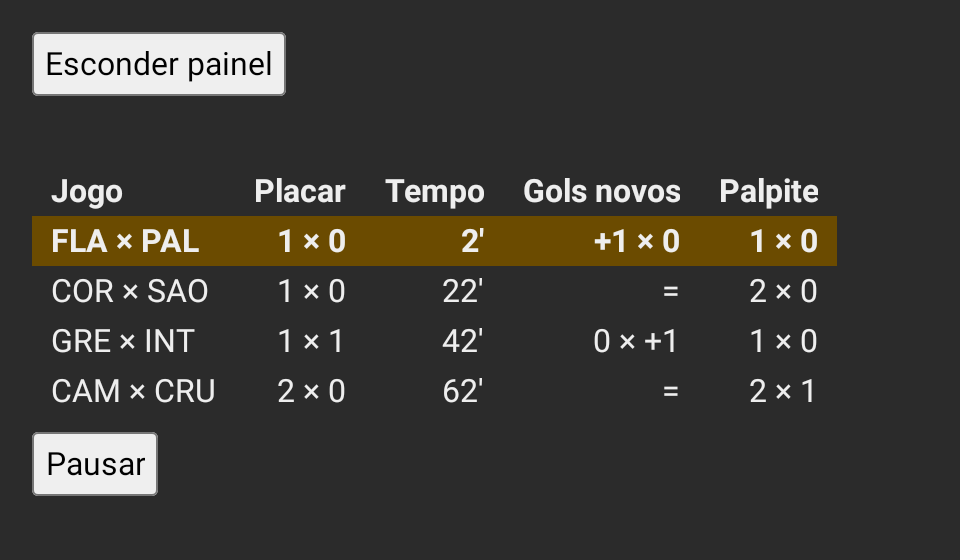
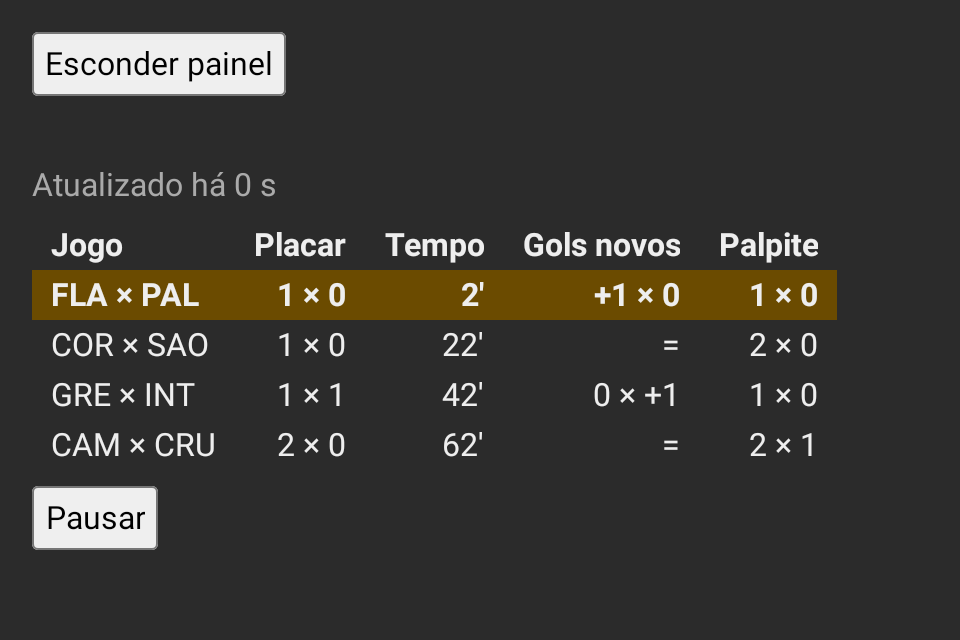
Mostra o "Atualizado há N s" no Views dos Dados ao vivo
O Views falha nas verificações do "Atualizado há" que a especificação
passou a pedir, e o teste nem compila: a Tela procura o id atualizacao,
que o layout não tem.

Como no Web Component, os dois tratadores, o do lote e o do tique,
chamam a mesma mostrarAtualizacao(), que lê a hora pelo agora() do
domínio. O relógio abre e fecha com a inscrição no onStart e no onStop
e ao mostrar e esconder o painel, mas fica aberto na pausa: ele vive
com o painel. Com a tela fora de vista, o Views fecha o relógio como já
fecha a inscrição; ao reabrir, recalcula já o texto, senão a tela que
volta do segundo plano diria por até 1 s a idade de quando saiu de
vista. O estilo Atualizacao herda o da Situacao.

A linha a mais não cabe na tela de 280dp das cenas: o botão de pausa
saía cortado no aguardando, no ao-vivo e no pausado. Os quatro testes
do módulo passam a 320dp, para continuarem com a mesma tela; por isso
o escondido também muda, só na altura. Como antes, a TextView vazia
guarda a altura de uma linha, onde o parágrafo vazio da web não ocupa
nada.

O SegundoPlanoTest e o RotacaoTest passam a conferir também o relógio:
nenhum aberto em segundo plano, um de volta e depois da rotação, e o
"Atualizado há 3 s" logo ao voltar, 3 s depois do lote.

Conferido: os testes do módulo passam, com as 19 verificações; sem o
fecharRelogio() no esconder(), falham 2, 3, 9 e 11; sem a chamada no
receber(), falha "7 o lote seguinte volta o atualizado há a 0 s"; e
[…]

diff --git a/implementacoes/dados-ao-vivo/android-views/src/main/java/tcc/dadosaovivo/views/MainActivity.kt b/implementacoes/dados-ao-vivo/android-views/src/main/java/tcc/dadosaovivo/views/MainActivity.kt
@@ -14,9 +14,12 @@ import java.io.Closeable
 import tcc.dadosaovivo.JOGOS
 import tcc.dadosaovivo.Lote
 import tcc.dadosaovivo.MENSAGENS
+import tcc.dadosaovivo.agora
+import tcc.dadosaovivo.formatarAtualizacao
 import tcc.dadosaovivo.formatarPlacar
 import tcc.dadosaovivo.formatarTempo
 import tcc.dadosaovivo.golsNovos
+import tcc.dadosaovivo.iniciarRelogio
 import tcc.dadosaovivo.inscreverNosPlacares
 import tcc.dadosaovivo.noPalpite
 
@@ -28,11 +31,15 @@ class MainActivity : AppCompatActivity() {
     private val linhas = mutableMapOf<String, TableRow>()
 
     // Estado da coordenação, na Activity: a inscrição aberta (nenhuma em
-    // pausa, com o painel escondido ou com a tela fora de vista), a pausa e o
-    // último lote mostrado, que dá os gols novos.
+    // pausa, com o painel escondido ou com a tela fora de vista), a pausa, o
+    // último lote mostrado, que dá os gols novos, a hora em que ele chegou e
+    // o relógio, que vive com o painel, e não com a inscrição (aberto também
+    // em pausa).
     private var inscricao: Closeable? = null
     private var pausado = false
     private var ultimo: Lote? = null
+    private var chegada: Long? = null
+    private var relogio: Closeable? = null
 
     override fun onCreate(savedInstanceState: Bundle?) {
         super.onCreate(savedInstanceState)
@@ -44,23 +51,28 @@ class MainActivity : AppCompatActivity() {
             } else {
                 mostrar()
                 inscrever()
+                abrirRelogio()
             }
         }
         mostrar()
     }
 
-    // A tela ficou à vista: abre a inscrição, se o painel está na página e
-    // não está em pausa. Como o connectedCallback do Web Component.
+    // A tela ficou à vista: abre o relógio, se o painel está na página, e a
+    // inscrição, se ele não está em pausa. Como o connectedCallback do Web
+    // Component.
     override fun onStart() {
         super.onStart()
-        if (painel != null && !pausado) inscrever()
+        if (painel == null) return
+        if (!pausado) inscrever()
+        abrirRelogio()
     }
 
-    // Sem isto, a fonte continua mandando lotes para uma tela fora de vista.
-    // Como o disconnectedCallback.
+    // Sem isto, a fonte continua mandando lotes, e o relógio continua
+    // batendo, para uma tela fora de vista. Como o disconnectedCallback.
     override fun onStop() {
         super.onStop()
         cancelar()
+        fecharRelogio()
     }
 
     private fun inscrever() {
@@ -72,11 +84,26 @@ class MainActivity : AppCompatActivity() {
         inscricao = null
     }
 
+    // Como o iniciarRelogio do connectedCallback do Web Component. O texto se
+    // recalcula já ao abrir: de volta do segundo plano, ele ainda diria a idade
+    // de quando a tela saiu de vista.
+    private fun abrirRelogio() {
+        relogio = iniciarRelogio { mostrarAtualizacao() }
+        mostrarAtualizacao()
+    }
+
+    // Como o pararRelogio do disconnectedCallback.
+    private fun fecharRelogio() {
+        relogio?.close()
+        relogio = null
+    }
+
     // Põe o painel na página como se a interface abrisse, sem pausa nem
     // valores. Como o createElement e o append do Web Component.
     private fun mostrar() {
         pausado = false
         ultimo = null
+        chegada = null
         val placares = findViewById<LinearLayout>(R.id.placares)
         val novo = layoutInflater.inflate(R.layout.painel, placares, false)
         val tabela = novo.findViewById<TableLayout>(R.id.tabela)
@@ -107,6 +134,7 @@ class MainActivity : AppCompatActivity() {
 
     private fun esconder() {
         cancelar()
+        fecharRelogio()
         findViewById<LinearLayout>(R.id.placares).removeView(painel)
         painel = null
         findViewById<Button>(R.id.alternar).text = "Mostrar painel"
@@ -148,6 +176,15 @@ class MainActivity : AppCompatActivity() {
             }
         }
         ultimo = lote
+        chegada = agora()
         findViewById<TextView>(R.id.situacao).text = ""
+        mostrarAtualizacao()
+    }
+
+    // Chamada a cada lote e a cada tique: o mesmo texto muda pelos dois. Como
+    // a mostrarAtualizacao() do Web Component.
+    private fun mostrarAtualizacao() {
+        findViewById<TextView>(R.id.atualizacao).text =
+            formatarAtualizacao(chegada, agora())
     }
 }

diff --git a/implementacoes/dados-ao-vivo/android-views/src/test/java/tcc/dadosaovivo/views/SegundoPlanoTest.kt b/implementacoes/dados-ao-vivo/android-views/src/test/java/tcc/dadosaovivo/views/SegundoPlanoTest.kt
@@ -9,13 +9,15 @@ import org.junit.runner.RunWith
 import org.robolectric.annotation.Config
 import tcc.dadosaovivo.RelogioFalso
 import tcc.dadosaovivo.contarInscricoes
+import tcc.dadosaovivo.contarRelogios
 
 // A tela em segundo plano, que a especificação não cobre e em que as duas
 // tecnologias diferem (ADR 0005; docs/achados-das-implementacoes.md): no
-// Views, o onStop fecha a inscrição, e de volta os gols novos contam desde o
-// último lote que o usuário viu. No Compose, a inscrição continua.
+// Views, o onStop fecha a inscrição e o relógio; de volta, o "Atualizado há"
+// diz já a idade do último lote, e os gols novos contam desde o último lote
+// que o usuário viu. No Compose, a inscrição continua.
 @RunWith(AndroidJUnit4::class)
-@Config(qualifiers = "w480dp-h280dp-xhdpi")
+@Config(qualifiers = "w480dp-h320dp-xhdpi")
 class SegundoPlanoTest {
     @get:Rule(order = 0) val relogio = RelogioFalso()
 
@@ -28,13 +30,24 @@ class SegundoPlanoTest {
     fun segundoPlanoFechaAInscricao() {
         tela.avancar(1000)
         tela.irParaSegundoPlano()
-        val emSegundoPlano = contarInscricoes()
+        val emSegundoPlano = listOf(contarInscricoes(), contarRelogios())
         relogio.avancar(3000)
         tela.voltarDoSegundoPlano()
+        val aoVoltar = tela.atualizacao()
         tela.avancar(1000)
         assertEquals(
-            listOf(0, 1, "FLA × PAL | 1 × 0 | 5' | +1 × 0 | 1 × 0"),
-            listOf(emSegundoPlano, contarInscricoes(), tela.linhas()[0]),
+            listOf(
+                listOf(0, 0),
+                "Atualizado há 3 s",
+                listOf(1, 1),
+                "FLA × PAL | 1 × 0 | 5' | +1 × 0 | 1 × 0",
+            ),
+            listOf(
+                emSegundoPlano,
+                aoVoltar,
+                listOf(contarInscricoes(), contarRelogios()),
+                tela.linhas()[0],
+            ),
         )
     }
 }

diff --git a/implementacoes/dados-ao-vivo/android-views/src/test/java/tcc/dadosaovivo/views/RotacaoTest.kt b/implementacoes/dados-ao-vivo/android-views/src/test/java/tcc/dadosaovivo/views/RotacaoTest.kt
@@ -9,12 +9,13 @@ import org.junit.runner.RunWith
 import org.robolectric.annotation.Config
 import tcc.dadosaovivo.RelogioFalso
 import tcc.dadosaovivo.contarInscricoes
+import tcc.dadosaovivo.contarRelogios
 
 // A rotação, que a especificação não cobre: o Android recria a Activity, a
-// inscrição da tela antiga fecha, e o painel recomeça como se a interface
-// abrisse, sem a pausa nem os valores, também depois de escondido.
+// inscrição e o relógio da tela antiga fecham, e o painel recomeça como se a
+// interface abrisse, sem a pausa nem os valores, também depois de escondido.
 @RunWith(AndroidJUnit4::class)
-@Config(qualifiers = "w480dp-h280dp-xhdpi")
+@Config(qualifiers = "w480dp-h320dp-xhdpi")
 class RotacaoTest {
     @get:Rule(order = 0) val relogio = RelogioFalso()
 
@@ -29,18 +30,24 @@ class RotacaoTest {
         tela.pausa()
         tela.recriar()
         assertEquals(
-            listOf("Aguardando placares…", "Pausar", 1),
-            listOf(tela.situacao(), tela.textoDaPausa(), contarInscricoes()),
+            listOf("Aguardando placares…", "Pausar", 1, 1),
+            listOf(
+                tela.situacao(),
+                tela.textoDaPausa(),
+                contarInscricoes(),
+                contarRelogios(),
+            ),
         )
 
         tela.alternar()
         tela.recriar()
         assertEquals(
-            listOf(true, "Esconder painel", 1),
+            listOf(true, "Esconder painel", 1, 1),
             listOf(
                 tela.painelNaPagina(),
                 tela.textoDoAlternar(),
                 contarInscricoes(),
+                contarRelogios(),
             ),
         )
     }

diff --git a/implementacoes/dados-ao-vivo/android-views/src/test/java/tcc/dadosaovivo/views/CenasTest.kt b/implementacoes/dados-ao-vivo/android-views/src/test/java/tcc/dadosaovivo/views/CenasTest.kt
@@ -14,7 +14,7 @@ import tcc.dadosaovivo.RelogioFalso
 // captura da web. O placar depende do relógio falso, que começa às 10:00:00
 // UTC; cada cena esconde e mostra o painel, para a inscrição começar com ela.
 @RunWith(AndroidJUnit4::class)
-@Config(qualifiers = "w480dp-h280dp-xhdpi")
+@Config(qualifiers = "w480dp-h320dp-xhdpi")
 class CenasTest {
     @get:Rule(order = 0) val relogio = RelogioFalso()
 

diff --git a/implementacoes/dados-ao-vivo/android-views/src/test/java/tcc/dadosaovivo/views/TesteDeConformidade.kt b/implementacoes/dados-ao-vivo/android-views/src/test/java/tcc/dadosaovivo/views/TesteDeConformidade.kt
@@ -16,7 +16,7 @@ import tcc.dadosaovivo.contarRelogios
 // de 2026-10-12 e só anda com avancar(ms). Falha listando todas as que não
 // passaram.
 @RunWith(AndroidJUnit4::class)
-@Config(qualifiers = "w480dp-h280dp-xhdpi")
+@Config(qualifiers = "w480dp-h320dp-xhdpi")
 class TesteDeConformidade {
     @get:Rule(order = 0) val relogio = RelogioFalso()
 
